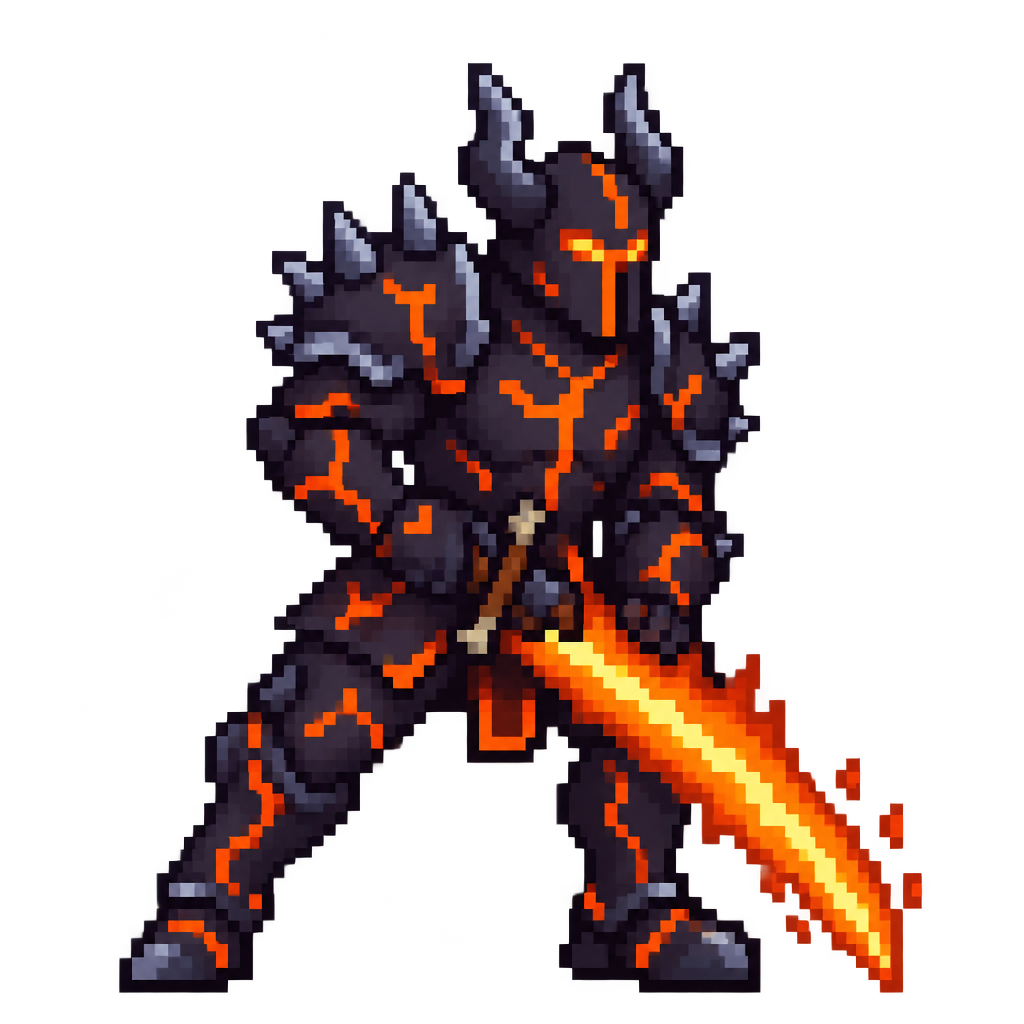
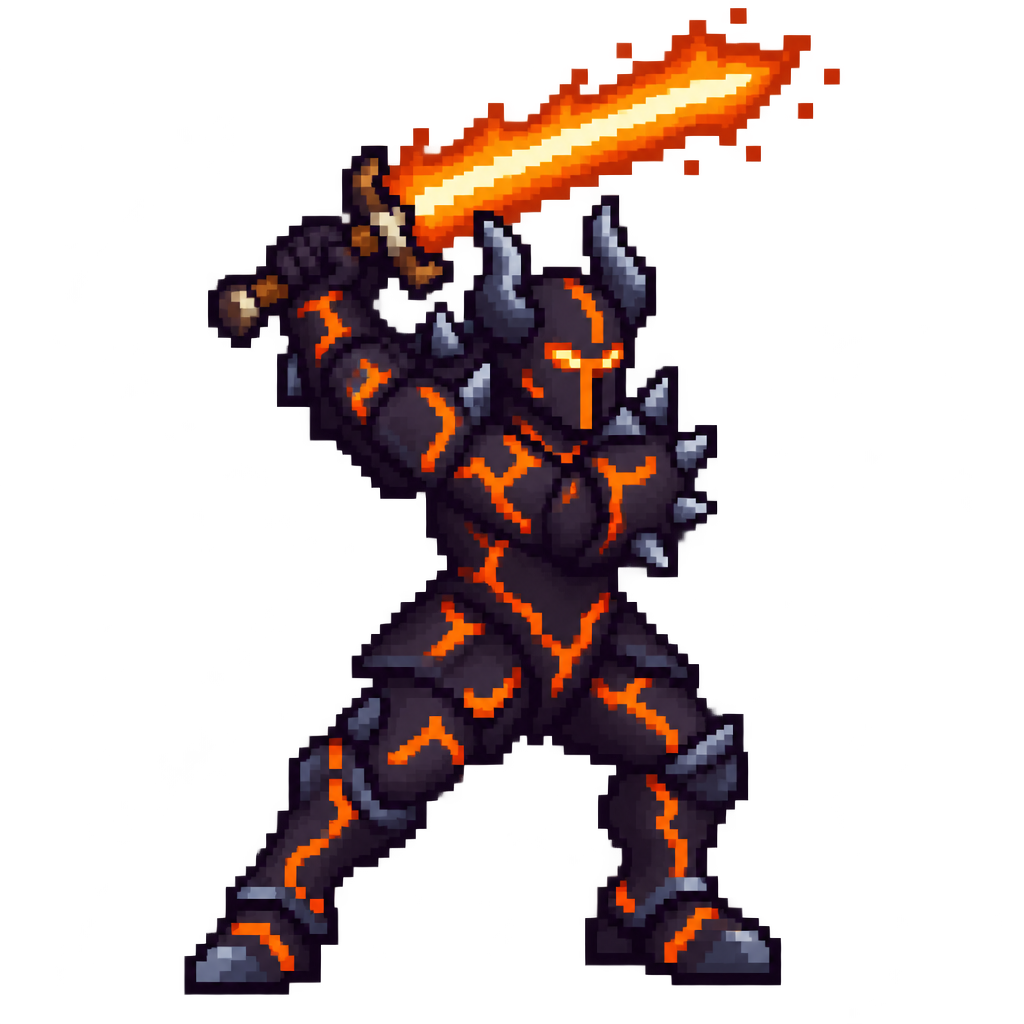
Act VI art redo round 1 (figures): Lilith, demon form, Hell Knight, Lava Hound, Seraph General, Agrat, Fallen Saint Deathlord, Hyper Succubus Queen wings, throne cracks
Claude-Session: https://claude.ai/code/session_01TjA5CNwUWb95gMazj5Z3qp

diff --git a/art_source/pandemonium/throne_cracks.py b/art_source/pandemonium/throne_cracks.py
@@ -1,0 +1,57 @@
+#!/usr/bin/env python3
+"""throne_cracks.py: draws the lava-filled cracks onto the Throne floor (Act VI art review round 1, owner note
+"add some cracks with lava in them").
+
+Run from the repo root right after `tools/make_tile.py build pandemonium_throne` (make_art.py floors() does). It opens
+assets/sprites/tiles/pandemonium_throne.png and draws a few thin jagged cracks with a seeded random walk that wraps
+around the tile edges, so the tile stays seamless. A crack is a dark red edge pixel line with a dim ember core and, on
+a few pixels, a brighter spark; the tones are the lava ramp, kept dim so units read on the floor. NOT idempotent
+(always run it on a fresh build). Deterministic: the seed is fixed.
+"""
+import numpy as np
+from pathlib import Path
+from PIL import Image
+
+ROOT = Path(__file__).resolve().parents[2]  # Repo root.
+TILE = ROOT / "assets/sprites/tiles/pandemonium_throne.png"  # The tile to draw on (128 x 128 art px).
+SEED = 6018  # Fixed seed of the random walks (deterministic).
+CRACKS = 4  # Number of cracks per tile.
+STEPS = (34, 54)  # Min and max length of a crack (px).
+EDGE = (0x2E, 0x10, 0x0A)  # Crack rim: a very dark red-brown (below lava_dark, keeps the floor quiet).
+CORE = (0x8A, 0x2A, 0x08)  # Crack core: the lava ramp's dark shade.
+SPARK = (0xC8, 0x4A, 0x12)  # A few brighter core pixels: between lava and lava_dark (never the light shade).
+SPARK_EVERY = 9  # One spark pixel per this many core pixels.
+
+
+def main() -> None:
+    img = np.array(Image.open(TILE).convert("RGBA"))
+    h, w = img.shape[:2]
+    rng = np.random.default_rng(SEED)
+    core = set()
+    for _ in range(CRACKS):
+        x, y = int(rng.integers(0, w)), int(rng.integers(0, h))
+        ang = float(rng.uniform(0, 6.2832))
+        for i in range(int(rng.integers(STEPS[0], STEPS[1] + 1))):
+            ang += float(rng.uniform(-0.45, 0.45))  # Jagged but not curling: turn a little every step.
+            x += int(round(np.cos(ang) * 1.4))
+            y += int(round(np.sin(ang) * 1.4))
+            core.add((x % w, y % h))
+            if i % 2 == 0:
+                core.add(((x + 1) % w, y % h))  # Every other step is 2 px wide: a crack, not a wire.
+    rim = set()
+    for (x, y) in core:
+        for dx in (-1, 0, 1):
+            for dy in (-1, 0, 1):
+                p = ((x + dx) % w, (y + dy) % h)
+                if p not in core:
+                    rim.add(p)
+    for (x, y) in rim:
+        img[y, x, :3] = EDGE
+    for n, (x, y) in enumerate(sorted(core)):
+        img[y, x, :3] = SPARK if n % SPARK_EVERY == 0 else CORE
+    Image.fromarray(img).save(TILE)
+    print("throne cracks: %d core px, %d rim px" % (len(core), len(rim)))
+
+
+if __name__ == "__main__":
+    main()

diff --git a/tools/walk_cycle.py b/tools/walk_cycle.py
@@ -571,8 +571,8 @@ RIGS = {
     # the `swish` hip box swaying (boxes from each sprite's torso; for the owner's review); Lilith glides in her gown.
     "inferno/lilim_witch": dict(mode="robe", hip=32, rigid=[], sway=1, dip=1, bust=(5, 19, 13, 19, 2, 2), swish=(4, 20, 24, 32, 2)),
     "inferno/twin_naamah": dict(mode="robe", hip=35, rigid=[], sway=1, dip=1, bust=(16, 32, 15, 21, 2, 2), swish=(15, 33, 26, 36, 2)),
-    "inferno/twin_agrat": dict(mode="robe", hip=35, rigid=[], sway=1, dip=1, bust=(15, 31, 15, 21, 2, 2), swish=(14, 32, 26, 36, 2)),
-    "bosses/lilith": dict(mode="robe", hip=64, rigid=[], sway=1, dip=1, bust=(31, 61, 27, 38, 3, 2), swish=(30, 62, 47, 65, 2)),
+    "inferno/twin_agrat": dict(mode="robe", hip=35, rigid=[], sway=1, dip=1, bust=(16, 31, 14, 22, 2, 2), swish=(14, 32, 26, 36, 2)),
+    "bosses/lilith": dict(mode="robe", hip=66, rigid=[], sway=1, dip=1, bust=(41, 70, 24, 36, 3, 2), swish=(39, 72, 47, 66, 2)),
     "player/succubus_queen": dict(mode="robe", hip=32, rigid=[], sway=1, dip=1, bust=(11, 25, 13, 19, 2, 2), swish=(10, 26, 24, 32, 2)),
     "summons/bound_succubus": dict(mode="robe", hip=30, rigid=[], sway=1, dip=1, bust=(15, 29, 12, 18, 2, 2), swish=(14, 30, 22, 30, 2)),
     "summons/lilim_matriarch": dict(mode="robe", hip=35, rigid=[], sway=1, dip=1, bust=(19, 35, 15, 21, 2, 2), swish=(18, 36, 26, 36, 2)),

diff --git a/art_source/silk_palace/make_art.py b/art_source/silk_palace/make_art.py
@@ -39,7 +39,7 @@ FIGURES = {
     "inferno/twin_naamah": ("art_source/inferno/twin_naamah.png", 62, ["--ramps", "obsidian,demon,charm,violet,skin,gold"]),
     "inferno/twin_agrat": ("art_source/inferno/twin_agrat.png", 62, ["--ramps", "obsidian,demon,crimson,charm,skin,marble,gold"]),
     "player/succubus_queen": ("art_source/player/succubus_queen.png", 56, ["--ramps", "violet,demon,charm,obsidian,skin,gold"]),
-    "player/succubus_queen_hyper": ("art_source/player/succubus_queen_hyper.png", 56, ["--ramps", "gold,marble,charm,skin,bone"]),
+    "player/succubus_queen_hyper": ("art_source/player/succubus_queen_hyper.png", 56, ["--ramps", "gold,marble,charm,skin,bone,obsidian"]),
     "player/succubus_queen_untouchable": ("art_source/player/succubus_queen_untouchable.png", 56, ["--ramps", "marble,soul,grey,bone"]),
     "player/succubus_queen_deathlord": ("art_source/player/succubus_queen_deathlord.png", 58, ["--ramps", "grey,crimson,obsidian,skin,bone"]),
     "summons/bound_succubus": ("art_source/summons/bound_succubus.png", 52, ["--ramps", "obsidian,bone,soul,grey,demon,charm"]),

diff --git a/art_source/pandemonium/make_art.py b/art_source/pandemonium/make_art.py
@@ -172,6 +172,7 @@ def props() -> None:
 
 def floors() -> None:
     run(["tools/make_tile.py", "build", "pandemonium_iron", "pandemonium_bridges", "pandemonium_cathedral", "pandemonium_throne"])
+    run(["art_source/pandemonium/throne_cracks.py"])  # Round 1 redo: lava-filled cracks on the Throne floor (not idempotent).
 
 
 def strips() -> None:

diff --git a/docs/GDD.md b/docs/GDD.md
@@ -1965,3 +1965,4 @@ Decisions made since the source was written are recorded in 15.0; everything bel
 | — | Act VII integration (phase 2) | The three stage branches merged on the lead's branch in the brief's order: `act7-ravensmoor`, `act7-witchwood`, `act7-castle-sanguis` (`--no-ff`). Every shared list, `match` arm, hook and doc block keeps all three stages' blocks, Ravensmoor first, then the Witchwood, then Castle Sanguis (the block check finds every block a branch added in the merged files; the only joins are the list ends). **Sounds:** `SoundData.COURT_SOUNDS` keeps Ravensmoor's block, then the Witchwood's (Castle Sanguis added none), so the Witchwood's sounds render with new seeds after the merge (pack seeds follow dictionary order). **Art ledger:** the union of all three branches' rows. **Guest squads:** Castle Sanguis's guessed ids (`ghoul`, `crimson_witch`, `bloated_thrall`) are the real `CourtEnemyData` kind ids, kept; the minibosses (Old Greymane, the Bog Mother) are never guests; in the seed-7 army run 8 squads, 34 guests. **Shared ids:** no spell, passive, character, kind, sprite or sound id collides; two Castle Sanguis obstacle kinds reuse earlier art by id, `castle_wall` (Castle Kurogane's grey crenellated wall) and `candelabra` (the Palace of Silk and Ash's), kept shared (a Sanguis wall of its own is an art-review item; Ravensmoor had already moved off Kurogane's `black_pine` to `moor_pine`). **Masteries:** 22 classes with the Blood Spawn = 16,720 (`tools/ossuary_check.tscn` PASS). **Same-seed gate** (seed 7; Graveyard default and army, Gullhaven, Ul-Thalos, the Iron Citadel, the Asphodel Underworld, the Road to the Sun, Pandemonium): identical but for the catalog counts (Codex spells 27 → 30, summons 21 → 22, enemies 111 → 120, evolutions / recipes 47 → 51, skins 112 → 124, unlocked 28 → 31) and the Blood Scent line's list of fast classes, which now names the Blood Spawn (a listing). Seed-7 runs: the army bot (default and `--mortal`) wins all three stages and slays every boss (Vargr 18:31, Isolde 17:56, Carmilla 18:40; lowest HP at a minute mark 93 / 120 / 60). The forced builds (naive bot, `--mortal`) die: Moonfang on Ravensmoor at 10:36 (Wolf of the Red Moon at 8:22), Hex Circle on the Witchwood at 19:30 with Isolde at 96% (Witches' Sabbath at 8:01, 257,530 of its 297,252 damage), Blood Spawn + Gargoyles + Night Swarm on Castle Sanguis at 11:23 (Nocturne at 9:21); for the playtest pass. All three stay `"playable": false`. |
 | Act VII playtest pass 1 | Bot playtest pass 1 (army bot, meta none, 15 seeds a stage): deaths before 0:00 were Ravensmoor 2/15, the Witchwood 6/15, Castle Sanguis 5/15; all three Witchwood newspells deaths came at 8:00-9:16 (werewolves, Blood Knights and Bloated Thralls, ~65-73 damage each to the necromancer). **Owner: "Ease the Witchwood"** so it sits between Ravensmoor and Castle Sanguis. Changes (Witchwood only in effect; the werewolves, Blood Knights, Blood Moon and other stages untouched): the Bloated Thrall's damage 6.0 -> 4.5 (-25%, `CourtEnemyData`; the row is shared by guest squads on Castle Sanguis, no stage override key exists, it is the Witchwood's kind) and the blood pools' heal `WitchHexData.POOLS.heal_share` 0.03 -> 0.021 per s (-30%; Isolde's cauldron-bomb pools use the same path). |
 | Act VII playtest pass 2 | Bot playtest pass 2 (the Witchwood only, the same builds and seeds as pass 1, after "Ease the Witchwood": Bloated Thrall damage 6 -> 4.5, blood pool heal 0.03 -> 0.021 per s): deaths before 0:00 6 -> 5 of 15, mean lowest HP 75 -> 87, boss slain 9 -> 10, zero errors, `stuck_units=0`. All the newspells runs still die at ~8:00 (7:56-8:39) under the second Blood Moon (werewolves and Blood Knights, before any evolution), and the same holds on all three Act VII stages. **Owner: "Keep it, move on"**: no further change; Act VII waits for the owner's own playtest. Report `docs/act7/playtest/pass2.md`. |
+| Act VI art review, round 1 (figures and the throne) | Owner marks (Group B of `docs/act6/ART_REDO_R1.md`), art only, no gameplay change | Regenerated from their old sources as references (`GEN_LEDGER` rows; prompts beside the sources): **Lilith** and her **demon form** (the most exaggerated hourglass in the game: a much bigger bust, hips and thighs, a plunging neckline filled by a gold panel and gem, still fully covered; bust and swish boxes re-fitted, `bosses/lilith` rig), the **Hell Knight** (greatsword raised over the shoulder, ready to swing; the walk keeps it), the **Lava Hound** (a large, defined head: bull-skull face, jaw with fangs, eyes, horns; body unchanged), the **Fallen Seraph General** (a clear, noble face, greatsword raised ready to swing; wings and armour kept), **Agrat** (finished like her sister Naamah; bust box re-fitted to the new chest), the Fallen Saint's **Deathlord skin** (same figure, face and pose as the base, only the black-iron and crimson scheme and a crimson skull-and-crown emblem) and the Succubus Queen's **Hyper skin** (feathered angel wings in dark burnt feathers with gold tips replace the bat wings; the `obsidian` ramp added to its conversion so the dark feathers stay dark). Strips rebuilt for every key. The **Pandemonium throne floor** gets four thin lava-filled cracks (`art_source/pandemonium/throne_cracks.py`, a seeded wrapping random walk drawn after `make_tile.py build`, so it stays seamless; dim tones so units read). |

diff --git a/docs/art/ART_BIBLE.md b/docs/art/ART_BIBLE.md
@@ -2798,3 +2798,9 @@ Contact sheet `docs/act7/castle_sanguis_contact_sheet.png`.
 (the Graveyard soil, the March road), as the approved Countess does: the dark Court figures read against Castle
 Sanguis's own floors (mean L 0.16-0.28). Pale skin snaps to the `skin` ramp, so Carmilla's face reads tan (the known
 foundation weak spot, for the art review).
+
+### Act VI art review, round 1 (Group B: figures and the throne)
+- Regenerated with the old source as the first reference (plus the approved Succubus Queen / Naamah for the figure level). **Name the sex, and ask for ONE figure**: with a second character image attached the API copied it into the picture twice (Agrat, Lilith's demon form); the prompt now ends "Draw ONLY ONE figure" and the extra reference is a different pose.
+- Lilith's neckline is a plunging V filled by a gold panel and gem; the chest and hips stay covered.
+- The Hyper Succubus Queen converts with `obsidian` in the ramps (without it the dark feathers snap to brown).
+- `art_source/pandemonium/throne_cracks.py` draws the Throne's lava cracks after the tile build (not idempotent: always run it right after `make_tile.py build pandemonium_throne`).
